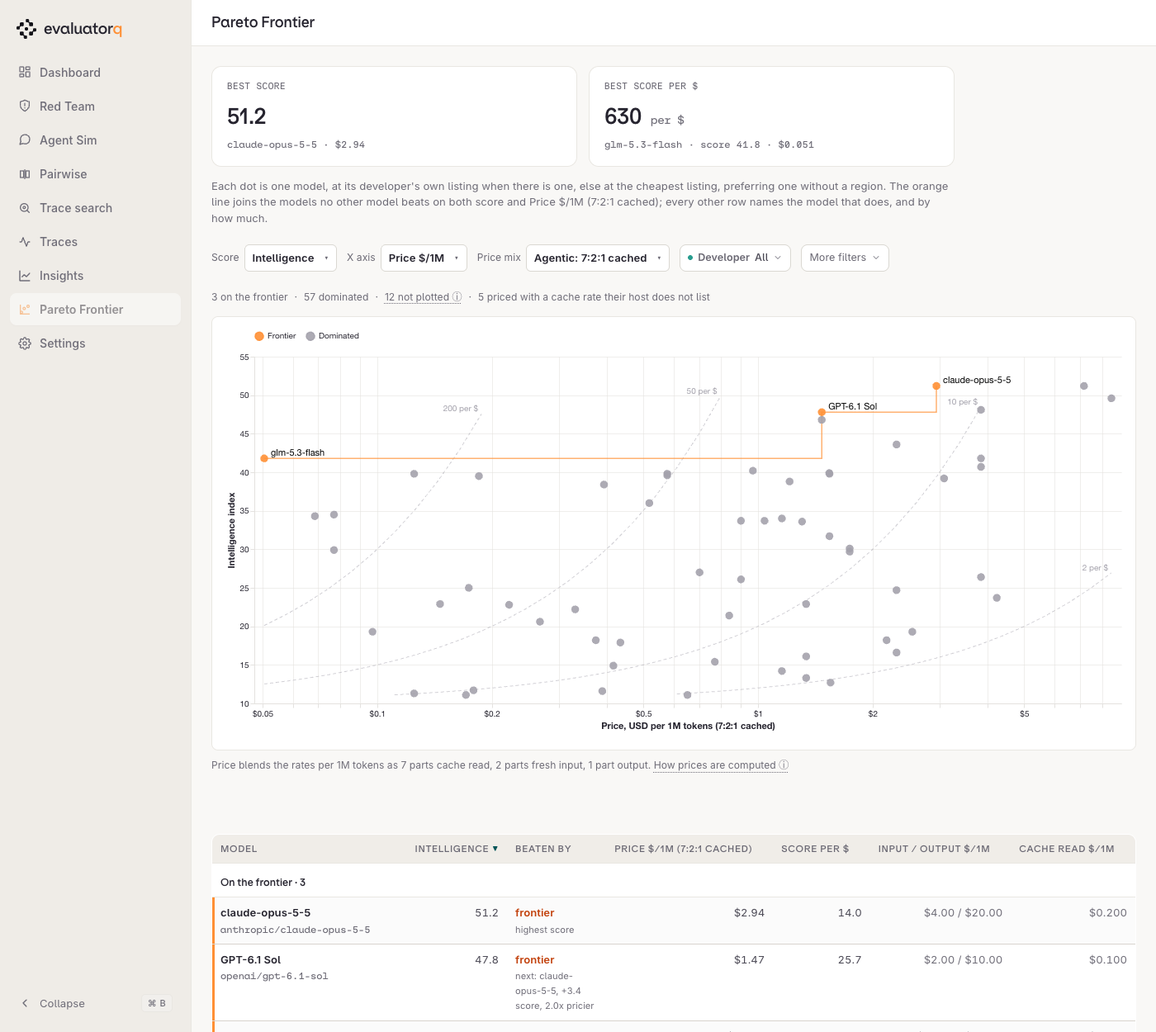
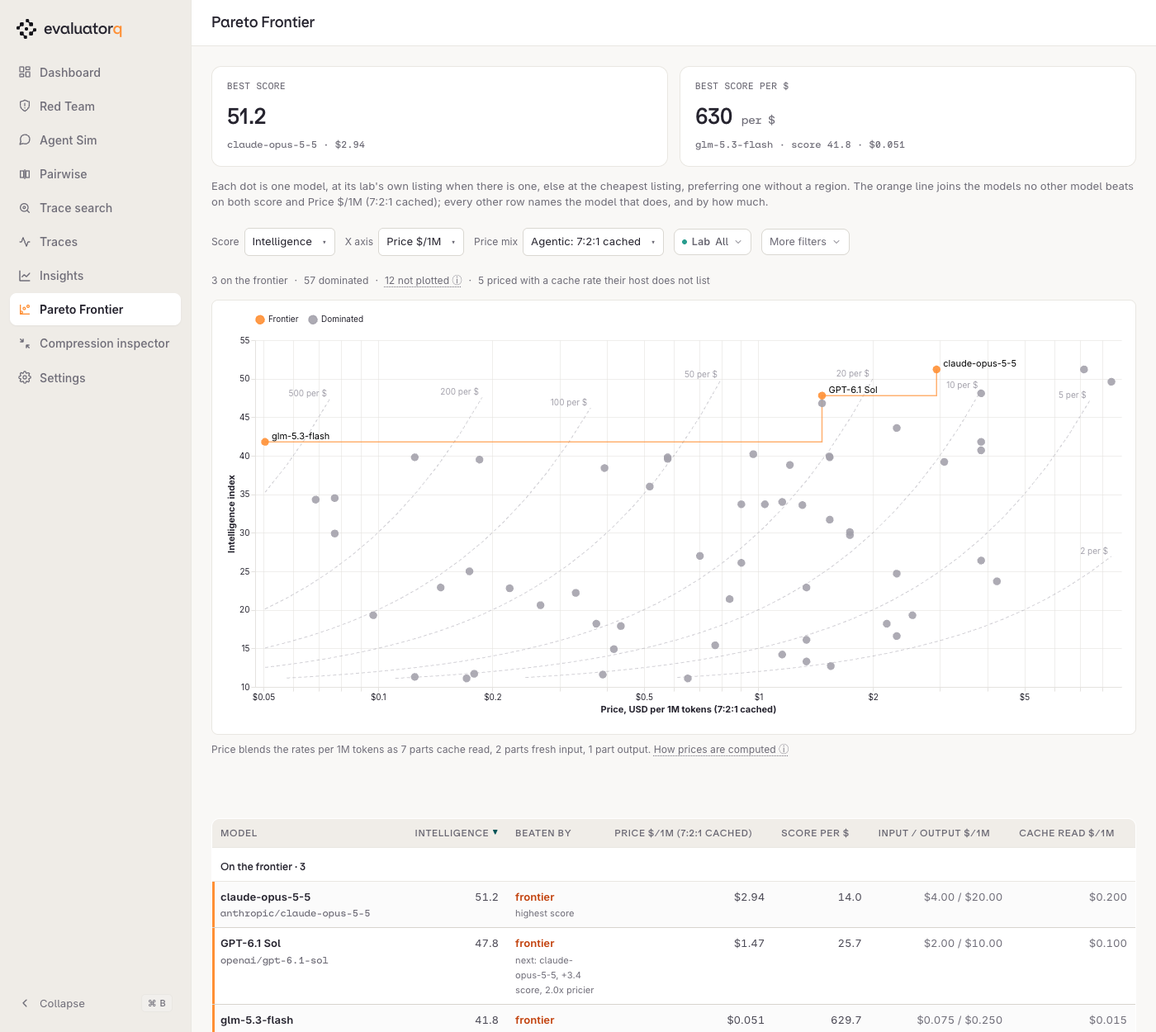
feat(dashboard): rename the Pareto Developer filter to Lab and add a Balanced card
- The Developer filter is now Lab, with the query parameter `lab` (was `developer`), since "provider" already names the host serving a model.
- Score per $ guide curves draw every 1-2-5 step in range, up to eight (was four), so 20 and 50 per $ show on the live catalogue.
- A Balanced card names the knee of the frontier on the price axis: the frontier model furthest above the straight line, on the log-price chart, from the best-value to the best-score model. Without a model above that line the third card stays the cheapest one.
- Filter values are regular weight, and the page sits in a centered 1120px column so the cards and intro line up with the chart.
- Docs and the three Pareto Frontier screenshots updated.

diff --git a/src/evaluatorq/dashboard/static/dashboard.js b/src/evaluatorq/dashboard/static/dashboard.js
@@ -1080,8 +1080,8 @@
 })();
 
 // The Pareto Frontier toolbar (form.models-filters) opens its dropdowns as pop-overs over the chart, so a click
-// outside them or Escape closes them; the report rails keep their own behaviour. All developer boxes ticked is no
-// developer filter, so the request drops them: otherwise developers that appear later (Include disabled models)
+// outside them or Escape closes them; the report rails keep their own behaviour. All lab boxes ticked is no
+// lab filter, so the request drops them: otherwise labs that appear later (Include disabled models)
 // would be filtered out by the list the page sent.
 (function () {
   var OPEN = 'form.models-filters details.filter-dd[open]';
@@ -1101,8 +1101,8 @@
   document.body.addEventListener('htmx:configRequest', function (evt) {
     var form = evt.detail.elt;
     if (!form || !form.matches || !form.matches('form.models-filters')) return;
-    var boxes = Array.prototype.slice.call(form.querySelectorAll('input[type="checkbox"][name="developer"]'));
-    if (boxes.length && boxes.every(function (b) { return b.checked; })) delete evt.detail.parameters.developer;
+    var boxes = Array.prototype.slice.call(form.querySelectorAll('input[type="checkbox"][name="lab"]'));
+    if (boxes.length && boxes.every(function (b) { return b.checked; })) delete evt.detail.parameters.lab;
   });
 })();
 

diff --git a/src/evaluatorq/dashboard/models_views.py b/src/evaluatorq/dashboard/models_views.py
@@ -110,7 +110,7 @@ class _State:
     x: str
     mix: PriceMix
     min_score: float
-    developers: list[str]
+    labs: list[str]
     unknown_x: str
     indices: list[str]
     efforts: list[str]
@@ -210,7 +210,7 @@ def _filters_html(q: dict[str, str], st: _State) -> str:
             title='How the price axis blends token prices, as cache read : cache write : fresh input : output. Add '
             '?mix=READ:WRITE:FRESH:OUTPUT to the address for your own ratio.',
         )
-        + dropdown('developer', 'Developer', st.vendors, st.developers, searchable=True)
+        + dropdown('lab', 'Lab', st.vendors, st.labs, searchable=True)
         + more
         + '<noscript><button type="submit">Apply</button></noscript></form>'
     )
@@ -311,11 +311,11 @@ def _winner(point: ParetoPoint, by_id: dict[str, ParetoPoint]) -> ParetoPoint | 
 
 
 _GUIDE_SAMPLES = 40
-_MAX_GUIDES = 4
+_MAX_GUIDES = 8
 
 
 def _guide_ks(lo: float, hi: float) -> list[float]:
-    """The 1-2-5 steps strictly inside (lo, hi), at most four spread across it: every other step when more fit."""
+    """The 1-2-5 steps strictly inside (lo, hi), at most eight spread across it: every other step when more fit."""
     if lo <= 0 or hi <= lo:
         return []
     decade = 10.0 ** math.floor(math.log10(lo))
@@ -512,12 +512,12 @@ _COLUMNS = (
 )
 
 
-def _link_params(params: dict[str, str], developers: list[str]) -> list[tuple[str, str]]:
-    """A link's query pairs: the non-empty single values, then one `developer` pair per chosen developer."""
-    return [(k, v) for k, v in params.items() if v and k != 'developer'] + [('developer', d) for d in developers]
+def _link_params(params: dict[str, str], labs: list[str]) -> list[tuple[str, str]]:
+    """A link's query pairs: the non-empty single values, then one `lab` pair per chosen lab."""
+    return [(k, v) for k, v in params.items() if v and k != 'lab'] + [('lab', d) for d in labs]
 
 
-def _head(columns: list[_Col], q: dict[str, str], result: ParetoResult, mix: PriceMix, developers: list[str]) -> str:
+def _head(columns: list[_Col], q: dict[str, str], result: ParetoResult, mix: PriceMix, labs: list[str]) -> str:
     """The sortable header row: each link sorts by its column, and clicking the active one reverses the order."""
     spec = result.x_spec
     sort = q.get('sort', 'score')
@@ -535,7 +535,7 @@ def _head(columns: list[_Col], q: dict[str, str], result: ParetoResult, mix: Pri
         cells.append(
             sortable_th(
                 labels.get(col.key, col.label),
-                control=f'href="{ROUTE}?{esc(urlencode(_link_params(params, developers)))}"',
+                control=f'href="{ROUTE}?{esc(urlencode(_link_params(params, labs)))}"',
                 active=active,
                 direction=flipped(natural) if reverse else natural,
                 numeric=col.numeric,
@@ -556,7 +556,7 @@ def _row(
 ) -> str:
     m = p.model
     host = m.router_id.split('/', 1)[0]
-    via = tag(f'via {host}', small=True, title='Listed by a host, not its developer') if host != model_vendor(m) else ''
+    via = tag(f'via {host}', small=True, title='Listed by a host, not its lab') if host != model_vendor(m) else ''
     est = tag('est', small=True, title='Estimated from an older benchmark version') if m.is_estimated else ''
     cells = [
         (
@@ -619,7 +619,7 @@ def _table(
     by_id: dict[str, ParetoPoint],
     mix: PriceMix,
     pool: dict[str, ScoredModel],
-    developers: list[str],
+    labs: list[str],
 ) -> str:
     # `result.frontier` is strongest first, so the model one score step up sits just before each point.
     frontier = result.frontier
@@ -650,7 +650,7 @@ def _table(
     body += _group('Excluded', excluded, len(columns))
     return (
         '<div class="models-table-wrap"><table class="models-table no-stack">'
-        f'{_head(columns, q, result, mix, developers)}{body}</table></div>'
+        f'{_head(columns, q, result, mix, labs)}{body}</table></div>'
     )
 
 
@@ -704,7 +704,7 @@ async def _load(req: Request, *, include_disabled: bool) -> list[ScoredModel] | 
 
 def _intro(x_label: str) -> str:
     return (
-        '<p class="models-intro">Each dot is one model, at its developer\'s own listing when there is one, else at the cheapest '
+        '<p class="models-intro">Each dot is one model, at its lab\'s own listing when there is one, else at the cheapest '
         'listing, preferring one without a region. The '
         f'orange line joins the models no other model beats on both score and {esc(x_label)}; every other row names '
         'the model that does, and by how much.</p>'
@@ -751,8 +751,28 @@ def _x_text(p: ParetoPoint, result: ParetoResult) -> str:
     return f'{axis.fmt(p.x)}{axis.unit}'
 
 
+def _balanced(result: ParetoResult, best: ParetoPoint, value: ParetoPoint | None) -> ParetoPoint | None:
+    """The knee of the frontier between the best-value and best-score models, on the price axis.
+
+    On the chart (log price against score), draw the straight line from the best-value model to the best-score one;
+    the knee is the frontier model furthest above it: up to there more money buys a lot of score, after it little.
+    None when no frontier model sits above that line.
+    """
+    if value is None or value is best or result.x != 'price' or best.x <= 0 or value.x <= 0 or best.x == value.x:
+        return None
+    lo, hi = math.log(value.x), math.log(best.x)
+
+    def gap(p: ParetoPoint) -> float:
+        return p.score - (value.score + (best.score - value.score) * (math.log(p.x) - lo) / (hi - lo))
+
+    between = [p for p in result.frontier if p.pareto_score is not None and value.x < p.x < best.x]
+    knee = max(between, key=gap, default=None)
+    return knee if knee is not None and gap(knee) > 0 else None
+
+
 def _answer_cards(result: ParetoResult, min_score: float) -> str:
-    """Three quick answers: the best score, the best score per dollar (price axis) and the best x at the floor."""
+    """Three quick answers: the best score, the best score per dollar and, on the price axis, the knee of the
+    frontier between them; else the best x at the floor."""
     if not result.frontier:
         return ''
     best = max(result.frontier, key=lambda p: p.score)
@@ -772,6 +792,17 @@ def _answer_cards(result: ParetoResult, min_score: float) -> str:
                 sub=f'{_name(value.model)} · score {value.score:.1f} · {_x_text(value, result)}',
             )
         )
+    balanced = _balanced(result, best, value)
+    if balanced is not None:
+        cards.append(
+            stat_tile(
+                label='Balanced',
+                value=f'{balanced.score:.1f}',
+                sub=f'{_name(balanced.model)} · {_x_text(balanced, result)} · '
+                f'{cast("float", balanced.pareto_score):,.0f} per $',
+            )
+        )
+        return f'<div class="stat-band models-cards">{"".join(cards)}</div>'
     cheapest = min(result.frontier, key=lambda p: result.x_spec.best_first(p.x))
     # A card naming the same model as another one adds nothing: one frontier model would fill every card.
     if cheapest is not value and cheapest is not best:
@@ -813,23 +844,23 @@ async def models_page(req: Request) -> HTMLResponse:
     index = _choice(q.get('index'), tuple(indices), 'intelligence')
     efforts = available_efforts(models)
     vendors = sorted({model_vendor(m) for m in models} - {''})
-    # The developer list submits every ticked box, so all of them ticked is the same as no developer filter.
-    developers = [d for d in req.query_params.getlist('developer') if d]
-    if set(vendors) <= set(developers):
-        developers = []
+    # The lab list submits every ticked box, so all of them ticked is the same as no lab filter.
+    labs = [d for d in req.query_params.getlist('lab') if d]
+    if set(vendors) <= set(labs):
+        labs = []
     state = _State(
         index=index,
         effort=_choice(q.get('effort'), tuple(efforts), '') if index == 'intelligence' else '',
         x=x,
         mix=mix,
         min_score=_min_score(q.get('min_score')),
-        developers=developers,
+        labs=labs,
         unknown_x=q['x'] if q.get('x') and q['x'] not in X_AXES else '',
         indices=indices,
         efforts=efforts,
         vendors=vendors,
     )
-    pool = [m for m in models if not state.developers or matches_vendor(m, state.developers)]
+    pool = [m for m in models if not state.labs or matches_vendor(m, state.labs)]
     result = pareto(
         pool,
         index=cast('Index', index),
@@ -845,7 +876,7 @@ async def models_page(req: Request) -> HTMLResponse:
         f'{_filters_html(q, state)}{_summary(result, state)}'
         f'<div class="models-chart">{_chart(result, by_id, state.min_score)}</div>'
         f'{_price_caption(mix) if x == "price" else ""}'
-        f'{_table(result, q, by_id, mix, {m.router_id: m for m in pool}, state.developers)}'
+        f'{_table(result, q, by_id, mix, {m.router_id: m for m in pool}, state.labs)}'
     )
 
 

diff --git a/tests/unit/test_models.py b/tests/unit/test_models.py
@@ -821,14 +821,35 @@ class TestDashboardPage:
         # c/cheap: (20 - 10) / $0.35 blended under the default mix = 28.6, shown as 29.
         assert 'per $' in text
         assert re.search(r'Best score per \$</div><div class="stat-value">29<span class="stat-unit"> per \$</span>', text)
-        assert 'Cheapest at score ≥ 10' in text and 'z/tiny' in text
+        # b/mid sits above the line from c/cheap to a/strong, so the third card is the knee, not the cheapest model.
+        cards = text.split('models-cards', 1)[1].split('models-intro', 1)[0]
+        assert 'Balanced' in cards and 'b/mid' in cards and 'Cheapest' not in cards
 
-    def test_cheapest_card_hidden_when_it_is_the_best_value(
+    def test_balanced_card_names_the_knee_when_the_cheapest_is_the_best_value(
         self, client: Any, monkeypatch: pytest.MonkeyPatch, fake_catalogue: list[ScoredModel]
     ) -> None:
         text = self._models_text(client, monkeypatch, fake_catalogue, '/models')
-        assert text.count('class="stat-tile"') == 2
-        assert 'Cheapest' not in text.split('models-cards', 1)[1].split('models-intro', 1)[0]
+        cards = text.split('models-cards', 1)[1].split('models-intro', 1)[0]
+        assert cards.count('class="stat-tile"') == 3
+        assert 'Balanced' in cards and 'b/mid' in cards and 'Cheapest' not in cards
+
+    def test_balanced_is_the_frontier_model_furthest_above_the_line(self) -> None:
+        from types import SimpleNamespace
+
+        from evaluatorq.dashboard.models_views import _balanced
+
+        def pt(score: float, x: float) -> Any:
+            return SimpleNamespace(score=score, x=x, pareto_score=1.0)
+
+        value, best = pt(20, 0.1), pt(50, 10)
+        # On log price the line from value to best passes 35 at $1 and 42.5 at $3.16.
+        low, knee, flat = pt(30, 0.3), pt(45, 1.0), pt(47, 3.16)
+        result = cast(Any, SimpleNamespace(x='price', frontier=[value, low, knee, flat, best]))
+        assert _balanced(result, best, value) is knee
+        # A frontier that bends the other way has no knee, so the page shows the cheapest card instead.
+        sagging = cast(Any, SimpleNamespace(x='price', frontier=[value, pt(25, 1.0), best]))
+        assert _balanced(sagging, best, value) is None
+        assert _balanced(cast(Any, SimpleNamespace(x='output_speed', frontier=[value, knee, best])), best, value) is None
 
     def test_speed_axis_shows_no_score_per_dollar_card(
         self, client: Any, monkeypatch: pytest.MonkeyPatch, fake_catalogue: list[ScoredModel]
@@ -1080,27 +1101,27 @@ class TestDashboardPage:
         assert '<span class="models-field-off" inert>' in off_price
         assert '<span class="models-field-off" inert>' not in text
 
-    def test_several_developers_narrow_to_their_union(
+    def test_several_labs_narrow_to_their_union(
         self, client: Any, monkeypatch: pytest.MonkeyPatch, fake_catalogue: list[ScoredModel]
     ) -> None:
-        text = self._models_text(client, monkeypatch, fake_catalogue, '/models?developer=a&developer=b')
+        text = self._models_text(client, monkeypatch, fake_catalogue, '/models?lab=a&lab=b')
         assert '<span>2 on the frontier</span><span>0 dominated</span>' in text
         assert 'c/cheap' not in text and 'd/bad' not in text
         assert '<span class="filter-dd-value is-engaged">2 selected</span>' in text
-        # The sort links keep every chosen developer, not only the last one.
-        assert 'developer=a&amp;developer=b' in text
-        one = self._models_text(client, monkeypatch, fake_catalogue, '/models?developer=a')
+        # The sort links keep every chosen lab, not only the last one.
+        assert 'lab=a&amp;lab=b' in text
+        one = self._models_text(client, monkeypatch, fake_catalogue, '/models?lab=a')
         assert '<span>1 on the frontier</span><span>0 dominated</span>' in one
         every = self._models_text(client, monkeypatch, fake_catalogue, '/models')
         assert '<span class="filter-dd-value">All</span>' in every
-        # Every box ticked is the same as no developer filter, so the sort links do not carry the whole list.
-        ticked = '&'.join(f'developer={v}' for v in 'abcde')
+        # Every box ticked is the same as no lab filter, so the sort links do not carry the whole list.
+        ticked = '&'.join(f'lab={v}' for v in 'abcde')
         all_ticked = self._models_text(client, monkeypatch, fake_catalogue, f'/models?{ticked}')
         assert '<span class="filter-dd-value">All</span>' in all_ticked
-        assert 'developer=a' not in all_ticked
-        assert 'class="facet-search"' in every  # the developer list is searchable
+        assert 'lab=a' not in all_ticked
+        assert 'class="facet-search"' in every  # the lab list is searchable
 
-    def test_including_disabled_models_with_every_developer_ticked_keeps_the_new_developers(
+    def test_including_disabled_models_with_every_lab_ticked_keeps_the_new_labs(
         self, client: Any, monkeypatch: pytest.MonkeyPatch, fake_catalogue: list[ScoredModel]
     ) -> None:
         from evaluatorq.dashboard import models_views
@@ -1113,12 +1134,12 @@ class TestDashboardPage:
             return [*fake_catalogue, hidden] if include_disabled else fake_catalogue
 
         monkeypatch.setattr(models_views, 'load_models', fake_load)
-        # The toolbar drops the developer values when every box is ticked (dashboard.js), so the request carries none.
+        # The toolbar drops the lab values when every box is ticked (dashboard.js), so the request carries none.
         text = client.get('/models?disabled=1').text
         assert 'value="z" checked' in text and 'z/off' in text
         assert '<span class="filter-dd-value">All</span>' in text
         js = (Path(models_views.__file__).parent / 'static' / 'dashboard.js').read_text()
-        assert "delete evt.detail.parameters.developer" in js
+        assert "delete evt.detail.parameters.lab" in js
 
     def test_min_score_readout_is_plain_at_the_page_default(
         self, client: Any, monkeypatch: pytest.MonkeyPatch, fake_catalogue: list[ScoredModel]
@@ -1162,13 +1183,19 @@ class TestDashboardPage:
         assert declarations.get('text-transform') == 'none'
         assert declarations.get('letter-spacing') == '0'
 
-    def test_guide_steps_fall_back_to_four_evenly_spaced(self) -> None:
+    def test_guide_steps_keep_every_1_2_5_step_on_a_real_range(self) -> None:
         from evaluatorq.dashboard.models_views import _guide_ks
 
-        # 0.002 to 500,000 holds 26 1-2-5 steps; every other step still leaves 13 (0.002 to 200,000), so four are picked
+        # The live catalogue's Score per $ runs from about 1.5 to 630: every step shows, 20 and 50 included.
+        assert _guide_ks(1.5, 630) == pytest.approx([2, 5, 10, 20, 50, 100, 200, 500])
+
+    def test_guide_steps_fall_back_to_eight_evenly_spaced(self) -> None:
+        from evaluatorq.dashboard.models_views import _guide_ks
+
+        # 0.002 to 500,000 holds 26 1-2-5 steps; every other step still leaves 13 (0.002 to 200,000), so eight are picked
         # evenly across those, ends included.
         ks = _guide_ks(0.0011, 1e6)
-        assert len(ks) == 4
+        assert len(ks) == 8
         assert ks == sorted(ks)
         assert ks[0] == pytest.approx(0.002) and ks[-1] == pytest.approx(200_000)
         assert all(0.0011 < k < 1e6 for k in ks)

diff --git a/src/evaluatorq/dashboard/styles.py b/src/evaluatorq/dashboard/styles.py
@@ -4237,8 +4237,8 @@ _PAIRWISE_COMPARE_CSS = """
 _MODELS_CSS = """
 /* ---- /models: Pareto view over the model catalogue ---- */
 .nav-item.nav-item-needs-auth { opacity: .45; }
-.models-page { display: flex; flex-direction: column; gap: 14px; }
-.models-intro, .models-summary { margin: 0; color: var(--text-muted); font-size: 13px; line-height: 1.5; max-width: 900px; }
+.models-page { display: flex; flex-direction: column; gap: 14px; width: 100%; max-width: 1120px; margin: 0 auto; }
+.models-intro, .models-summary { margin: 0; color: var(--text-muted); font-size: 13px; line-height: 1.5; }
 .models-summary { display: flex; flex-wrap: wrap; align-items: baseline; color: var(--text-muted); font-size: 12px; }
 .models-summary > span + span::before { content: '·'; margin: 0 8px; color: var(--text-faint); }
 .models-caption { margin: -6px 0 0; color: var(--text-muted); font-size: 12px; }
@@ -4249,7 +4249,7 @@ _MODELS_CSS = """
 .models-pop p:last-child { margin: 0; }
 /* Anchored under its button where supported; elsewhere the popover keeps the browser's centred default. */
 @supports (position-area: bottom) { .models-pop { inset: auto; margin: 6px 0 0; position-area: bottom span-right; position-try-fallbacks: flip-block, flip-inline; } }
-.models-cards { grid-template-columns: repeat(auto-fit, minmax(220px, 1fr)); max-width: 900px; }
+.models-cards { grid-template-columns: repeat(auto-fit, minmax(220px, 1fr)); }
 .models-group th { padding: 14px 10px 6px; font-size: 12px; font-weight: 600; color: var(--text-strong); background: none; text-align: left; border-bottom: 1px solid var(--border-subtle); text-transform: none; letter-spacing: 0; }
 .models-row.is-excluded td { color: var(--text-faint); }
 .models-alert { padding: 12px 14px; border: 1px solid var(--red-100); border-radius: 8px; background: var(--red-50); color: var(--red-700); font-size: 13px; }
@@ -4266,6 +4266,7 @@ _MODELS_CSS = """
 .models-filters .rich-pick .finder-facets .facet-list { width: max-content; min-width: 180px; max-width: 340px; }
 .models-filters .filter-dd-menu { left: 0; right: auto; }
 .models-filters .filter-dd-trigger { padding: 5px 9px; }
+.models-filters .model-pick-btn strong, .models-filters .filter-dd-value, .models-filters .filter-dd-value.is-engaged { font-weight: 400; }
 .models-filters .filter-dd-more .filter-dd-trigger { gap: 6px; padding: 5px 9px; background: var(--surface-card); border: 1px solid var(--border-default); border-radius: var(--radius-md); font-size: 12.5px; font-weight: 400; letter-spacing: 0; text-transform: none; color: var(--text-body); }
 .models-filters .filter-dd-more-body { position: absolute; z-index: 20; top: calc(100% + 4px); left: 0; width: 300px; margin: 0; padding: 12px; gap: 12px; background: var(--surface-card); border: 1px solid var(--border-default); border-radius: var(--radius-md); box-shadow: var(--shadow-lg); }
 .models-filters .filter-dd-more-body .models-field { justify-content: space-between; }

diff --git a/docs/dashboard.md b/docs/dashboard.md
@@ -483,13 +483,14 @@ Answer cards above the chart give the three quick answers, each for the models o
 |---|---|
 | **Best score** | The highest score, with that model and its value on the x axis. |
 | **Best score per $** | The highest **Score per $**, such as `630 per $`, with that model, its score and its price. Below 10 it keeps one decimal, such as `0.4 per $`. Shown only when the x axis is price. |
-| **Cheapest at score ≥ *minimum score*** | The cheapest frontier model that clears the minimum score, such as **Cheapest at score ≥ 10** on the default page. With the minimum score at `0` it reads plain **Cheapest**. On the speed axes it reads **Fastest at score ≥ *minimum score*** or **Quickest first token at score ≥ *minimum score***. Hidden when it names the same model as another card. |
+| **Balanced** | On the price axis, the frontier model at the knee between the **Best score per $** and **Best score** models: draw a straight line between those two on the chart, and it is the frontier model furthest above that line. Up to it, more money buys a lot of score; after it, little. It shows the model's score, price and Score per $. When no frontier model sits above the line, the frontier has no sweet spot and the third card is the cheapest one below instead. |
+| **Cheapest at score ≥ *minimum score*** | The cheapest frontier model that clears the minimum score, such as **Cheapest at score ≥ 10** on the default page. With the minimum score at `0` it reads plain **Cheapest**. On the speed axes it reads **Fastest at score ≥ *minimum score*** or **Quickest first token at score ≥ *minimum score***. Shown only when there is no **Balanced** card, and hidden when it names the same model as another card. |
 
 **Score per $** is the points a model scores above the minimum score, divided by its blended price: `(score - minimum score) / price`. A model exactly at the minimum score gets 0, and with the minimum score at `0` it is the plain score per dollar. It is the same number as the `Score per $` column of `eq models pareto` (see [Model Pareto frontier](model-pareto.md#the-frontier-in-one-command)).
 
 ![Pareto Frontier page on the default agentic price mix and minimum score of 10: the Best score and Best score per $ cards above three models on the frontier, with dashed Score per $ guide curves](assets/dashboard/models-01-frontier.png)
 
-On the price axis the chart draws faint dashed guide curves, each labelled with its Score per $, such as **50 per $**. Every model on one curve has the same Score per $, so a dot above a curve gives more score per dollar than the curve's label. The page picks up to four round values (1, 2, 5, 10, 20, 50 and so on) inside the range of the plotted models. The other x axes have no guides, because Score per $ is defined only against price.
+On the price axis the chart draws faint dashed guide curves, each labelled with its Score per $, such as **50 per $**. Every model on one curve has the same Score per $, so a dot above a curve gives more score per dollar than the curve's label. The page draws every round value (1, 2, 5, 10, 20, 50 and so on) inside the range of the plotted models, up to eight; on a wider range it thins them to eight spread across it. The other x axes have no guides, because Score per $ is defined only against price.
 
 The controls above the chart:
 
@@ -498,8 +499,8 @@ The controls above the chart:
 | **Score** | Intelligence or a domain index such as legal. Lists only the indices at least one loaded model has a score on. | Intelligence |
 | **X axis** | Price, output speed or time to first token. | Price |
 | **Price mix** | **Agentic: 7:2:1 cached** (7 parts cache read, 2 parts fresh input, 1 part output) or **List: 3:1 input/output**. Greyed out on the other x axes. | Agentic |
-| **Developer** | Plots the models of the developers you tick. Type in its search box to narrow the list. Ticking every developer, or none, plots them all, and the page address then carries no developer list, so models that **Include disabled models** adds still show. | All developers |
-| **More filters** | Opens the five settings below. A number on the button counts how many of them differ from their default; the **Minimum score** readout turns teal under the same rule. A click outside the panel, or Escape, closes it, as it does the **Developer** list. | Closed |
+| **Lab** | Plots the models of the labs you tick: the company that made the model, such as `openai` or `alibaba`, whichever host serves it. Type in its search box to narrow the list. Ticking every lab, or none, plots them all, and the page address then carries no lab list, so models that **Include disabled models** adds still show. | All labs |
+| **More filters** | Opens the five settings below. A number on the button counts how many of them differ from their default; the **Minimum score** readout turns teal under the same rule. A click outside the panel, or Escape, closes it, as it does the **Lab** list. | Closed |
 | **Reasoning level** | In **More filters**. Scores intelligence at one reasoning effort. Greyed out on a domain index. | Each model's default |
 | **Minimum score** | In **More filters**, a slider from 0 to 100. Hides models scoring below it on the chosen score; `0` plots every model. It is also the floor that Score per $ counts from. | 10 |
 | **Frontier only** | In **More filters**. Trims the table to the frontier models. | Off |
@@ -510,7 +511,7 @@ For your own price ratio, add `?mix=7:1:1:1` (cache read : cache write : fresh i
 
 The summary line under the controls counts the frontier, the dominated models, the models not plotted and how many of those the minimum score hid. Set the minimum score to `0` when a model you expected is missing.
 
-The table below the chart lists every plotted model with its prices and, for a dominated model, the frontier model that beats it. On the price axis it has a **Score per $** column; click its header to rank the models by it. Click any column header to sort. Contributor listings (see [Model Pareto frontier](model-pareto.md#one-dot-per-model)) sit last, under **Excluded**, with an **excluded** tag whose tooltip gives the reason; they are not on the chart and are never compared. To check one model, find its row: **Beaten by** names the model that beats it, and the page has no single-model view, which `eq models pareto --model` gives. On a blend with a cache-read share it adds a **Cache read $/1M** column. An **AA** tag in that column marks a rate taken from the Artificial Analysis price because the host lists none, and an **input** tag marks a card with no cache price, billed at the input rate. The summary line counts the tagged models, and on a custom mix with a write share the count includes cache-write fallbacks, which the page has no column for. Filtering to the alibaba developer shows four Qwen models billed at the input rate:
+The table below the chart lists every plotted model with its prices and, for a dominated model, the frontier model that beats it. On the price axis it has a **Score per $** column; click its header to rank the models by it. Click any column header to sort. Contributor listings (see [Model Pareto frontier](model-pareto.md#one-dot-per-model)) sit last, under **Excluded**, with an **excluded** tag whose tooltip gives the reason; they are not on the chart and are never compared. To check one model, find its row: **Beaten by** names the model that beats it, and the page has no single-model view, which `eq models pareto --model` gives. On a blend with a cache-read share it adds a **Cache read $/1M** column. An **AA** tag in that column marks a rate taken from the Artificial Analysis price because the host lists none, and an **input** tag marks a card with no cache price, billed at the input rate. The summary line counts the tagged models, and on a custom mix with a write share the count includes cache-write fallbacks, which the page has no column for. Filtering to the alibaba lab shows four Qwen models billed at the input rate:
 
 ![Pareto Frontier page filtered to alibaba, scrolled to the table: four Qwen rows tag their cache-read rate with input](assets/dashboard/models-03-fallback.png)
 

diff --git a/docs/assets/dashboard/README.md b/docs/assets/dashboard/README.md
@@ -43,9 +43,9 @@ Captured on 2026-11-23 against the live Orq catalogue (72 models after keeping o
 
 | File | Page |
 |---|---|
-| `models-01-frontier.png` | Pareto Frontier (`/models`) — the Best score and Best score per $ answer cards, the Score, X axis, Price mix, Developer and More filters controls, intelligence index against the agentic blended price with the frontier line and dashed Score per $ guide curves, and the top of the table with its Score per $ column |
+| `models-01-frontier.png` | Pareto Frontier (`/models`) — the Best score and Best score per $ answer cards, the Score, X axis, Price mix, Lab and More filters controls, intelligence index against the agentic blended price with the frontier line and dashed Score per $ guide curves, and the top of the table with its Score per $ column |
 | `models-02-legal.png` | Pareto Frontier (`/models?index=legal`) — the legal index, where about half the models have no score and are not plotted |
-| `models-03-fallback.png` | Pareto Frontier (`/models?developer=alibaba`), scrolled to the table — four Qwen cache-read rates tagged **input**, billed at the input rate because their cards list no cache price |
+| `models-03-fallback.png` | Pareto Frontier (`/models?lab=alibaba`), scrolled to the table — four Qwen cache-read rates tagged **input**, billed at the input rate because their cards list no cache price |
 
 ## Pending re-shoot
 
